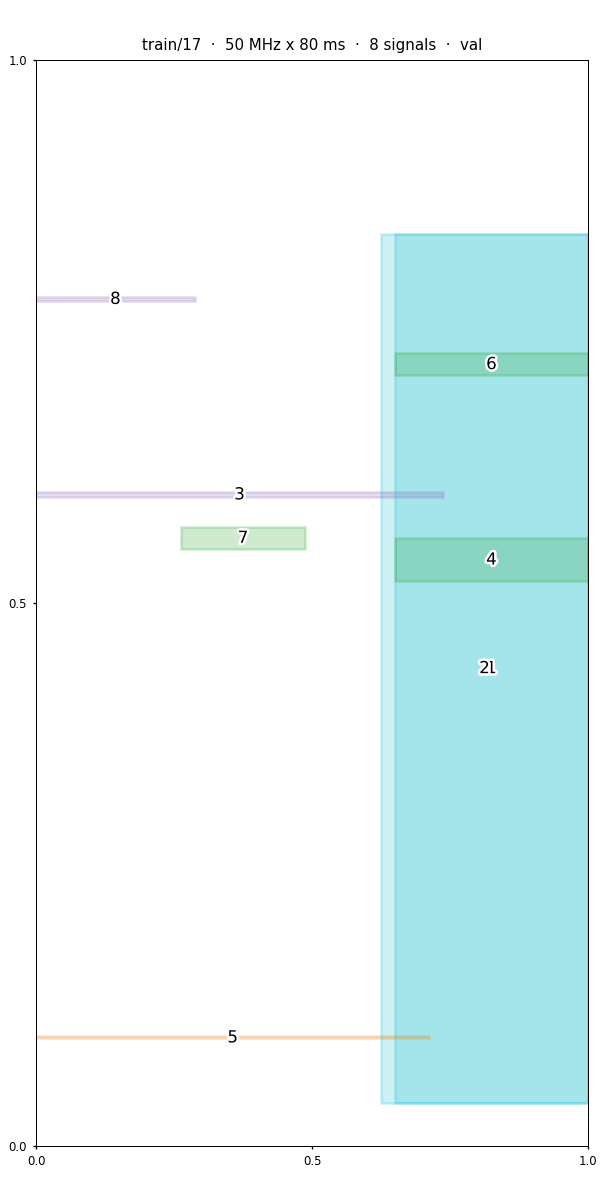
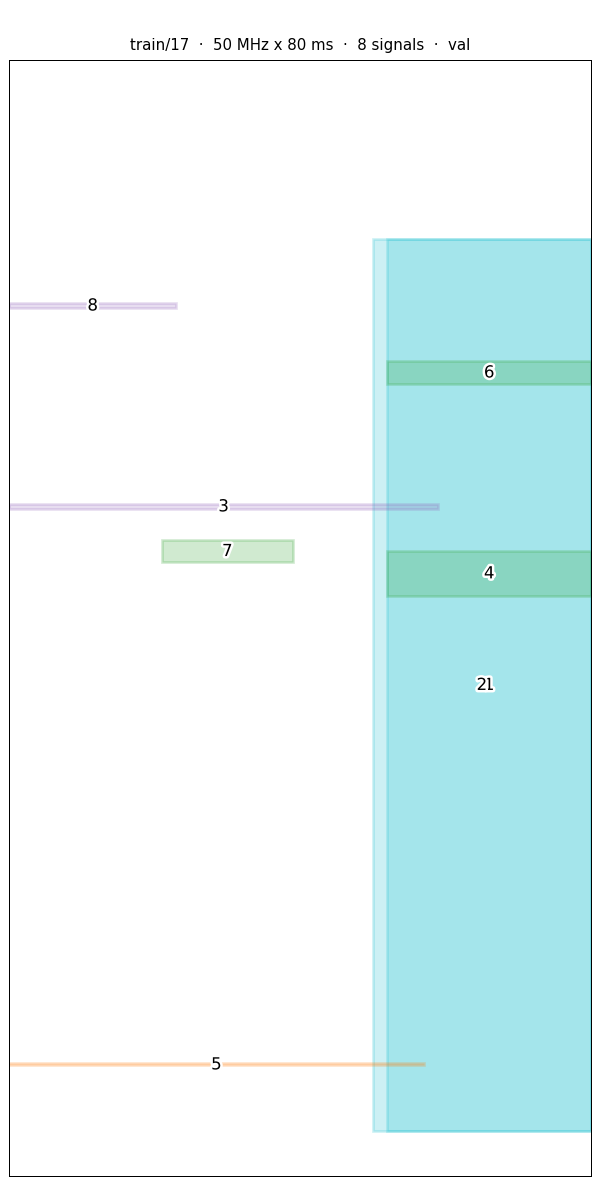
style: multiline header and overlap list, remove tick numbers and svg border

diff --git a/reports/label_schematic_browser.html b/reports/label_schematic_browser.html
@@ -15,11 +15,11 @@ button { padding:4px 10px; font-size:12px; margin:2px 4px 2px 0; cursor:pointer;
 #legend div { margin:3px 0; white-space:nowrap; }
 #legend i { display:inline-block; width:12px; height:12px; border:1.5px solid; margin-right:6px; vertical-align:-2px; }
 #stats { margin-top:16px; font-size:11px; color:#888; }
-#head { font-size:14px; margin-bottom:8px; }
-#head .sub { color:#666; font-size:12px; }
-#ovl { font-size:12px; margin-bottom:8px; color:#444; max-height:110px; overflow-y:auto; }
-#ovl b { color:#c0392b; }
-svg { background:#fff; border:1px solid var(--line); max-height:calc(100vh - 120px); }
+#head .id { font-size:15px; font-weight:600; }
+#head .meta { color:#666; font-size:12px; margin:2px 0 8px; }
+#ovl { font-size:12px; margin-bottom:8px; color:#444; max-height:132px; overflow-y:auto; line-height:1.65; }
+#ovl .t { font-weight:600; color:#c0392b; margin-bottom:1px; }
+svg { background:#fff; max-height:calc(100vh - 120px); }
 #tip { position:fixed; display:none; background:#fff; border:1px solid #bbb; box-shadow:0 2px 8px rgba(0,0,0,.15);
        padding:7px 10px; font-size:12px; pointer-events:none; z-index:10; white-space:nowrap; }
 #tip .t1 { font-weight:600; } #tip .t2 { color:#555; }
@@ -58,7 +58,7 @@ const DATA = [["train/0","fit",30.0,80.0,2401.0,[[9,0.4,1.0,0.56579,0.56754,0.05
 const NAMES = ["W20-QPSK", "W20-16QAM", "W20-64QAM", "W40-QPSK", "W40-16QAM", "W40-64QAM", "BLE LE1M", "BLE LE2M", "Zigbee", "LoRa 250k", "SRRC QPSK", "SRRC 16QAM", "AM", "FM"];
 const FAMC = ["#1f77b4", "#1f77b4", "#1f77b4", "#17becf", "#17becf", "#17becf", "#2ca02c", "#2ca02c", "#2ca02c", "#ff7f0e", "#d62728", "#d62728", "#9467bd", "#9467bd"], FAMN = ["WiFi 20MHz", "WiFi 40MHz", "BLE/Zigbee", "LoRa", "SRRC", "AM/FM"], REPR = [0,3,6,9,10,12];
 const famOf = c => c<3?0 : c<6?1 : c<9?2 : c===9?3 : c<12?4 : 5;
-const W=520,H=1040,PL=48,PR=12,PT=18,PB=36,PW=W-PL-PR,PH=H-PT-PB;
+const W=520,H=1040,PL=6,PR=6,PT=12,PB=12,PW=W-PL-PR,PH=H-PT-PB;
 const X = t => PL + t*PW, Y = f => PT + (1-f)*PH;
 
 let list = DATA.slice(), idx = 0;
@@ -97,13 +97,11 @@ function render(){
   svg.innerHTML = '';
   const mk = (tag,attrs)=>{const el=document.createElementNS('http://www.w3.org/2000/svg',tag);
     for(const k in attrs) el.setAttribute(k,attrs[k]); svg.append(el); return el;};
-  // frame + ticks
+  // frame (the 0-1 observation window) + midpoint guides
   mk('rect',{x:PL,y:PT,width:PW,height:PH,fill:'#fff',stroke:'#999','stroke-width':1});
-  [0,0.5,1].forEach(v=>{
+  [0.5].forEach(v=>{
     mk('line',{x1:X(v),y1:PT,x2:X(v),y2:PT+PH,stroke:'#eee'});
     mk('line',{x1:PL,y1:Y(v),x2:PL+PW,y2:Y(v),stroke:'#eee'});
-    mk('text',{x:X(v),y:H-14,'font-size':10,'text-anchor':'middle',fill:'#888'}).textContent=v;
-    mk('text',{x:PL-10,y:Y(v)+3,'font-size':10,'text-anchor':'end',fill:'#888'}).textContent=v;
   });
 
   // overlap pairs
@@ -116,11 +114,12 @@ function render(){
       pairs.push([i+1,j+1,inter/aa,inter/bb]);
     }
   }
-  $('head').innerHTML = `${id} <span class="sub">· ${B} MHz × ${T} ms · ${sigs.length} signal${sigs.length>1?'s':''} · split ${split}</span>`;
+  $('head').innerHTML = `<div class="id">${id}</div>`
+    + `<div class="meta">${B} MHz × ${T} ms · ${sigs.length} signal${sigs.length>1?'s':''} · split ${split}</div>`;
   $('ovl').innerHTML = pairs.length
-    ? '<b>'+pairs.length+' overlapping pair'+(pairs.length>1?'s':'')+':</b> '
-      + pairs.map(p=>`#${p[0]}&#8745;#${p[1]} (${(p[2]*100).toFixed(1)}% of #${p[0]}, ${(p[3]*100).toFixed(1)}% of #${p[1]})`).join(' &nbsp; ')
-    : 'no overlapping instances';
+    ? `<div class="t">${pairs.length} overlapping pair${pairs.length>1?'s':''}</div>`
+      + pairs.map(p=>`<div>#${p[0]} ∩ #${p[1]} · ${(p[2]*100).toFixed(1)}% of #${p[0]} · ${(p[3]*100).toFixed(1)}% of #${p[1]}</div>`).join('')
+    : '<div>no overlapping instances</div>';
 
   // boxes
   sigs.forEach((g,k)=>{

diff --git a/scripts/plot_label_schematic.py b/scripts/plot_label_schematic.py
@@ -92,12 +92,11 @@ def load_samples(splits: list[str]) -> list[dict]:
 
 def render_static(sample: dict, path: Path, dpi: int = 120) -> None:
     fig = plt.figure(figsize=(5, 5 * ASPECT))
-    ax = fig.add_axes([0.06, 0.045, 0.92, 0.905])
+    ax = fig.add_axes([0.015, 0.02, 0.97, 0.93])
     ax.set_xlim(0, 1)
     ax.set_ylim(0, 1)
-    ax.set_xticks([0, 0.5, 1])
-    ax.set_yticks([0, 0.5, 1])
-    ax.tick_params(labelsize=7, length=2)
+    ax.set_xticks([])
+    ax.set_yticks([])
     for sp in ax.spines.values():
         sp.set_linewidth(0.6)
     ax.set_title(
@@ -152,11 +151,11 @@ button { padding:4px 10px; font-size:12px; margin:2px 4px 2px 0; cursor:pointer;
 #legend div { margin:3px 0; white-space:nowrap; }
 #legend i { display:inline-block; width:12px; height:12px; border:1.5px solid; margin-right:6px; vertical-align:-2px; }
 #stats { margin-top:16px; font-size:11px; color:#888; }
-#head { font-size:14px; margin-bottom:8px; }
-#head .sub { color:#666; font-size:12px; }
-#ovl { font-size:12px; margin-bottom:8px; color:#444; max-height:110px; overflow-y:auto; }
-#ovl b { color:#c0392b; }
-svg { background:#fff; border:1px solid var(--line); max-height:calc(100vh - 120px); }
+#head .id { font-size:15px; font-weight:600; }
+#head .meta { color:#666; font-size:12px; margin:2px 0 8px; }
+#ovl { font-size:12px; margin-bottom:8px; color:#444; max-height:132px; overflow-y:auto; line-height:1.65; }
+#ovl .t { font-weight:600; color:#c0392b; margin-bottom:1px; }
+svg { background:#fff; max-height:calc(100vh - 120px); }
 #tip { position:fixed; display:none; background:#fff; border:1px solid #bbb; box-shadow:0 2px 8px rgba(0,0,0,.15);
        padding:7px 10px; font-size:12px; pointer-events:none; z-index:10; white-space:nowrap; }
 #tip .t1 { font-weight:600; } #tip .t2 { color:#555; }
@@ -195,7 +194,7 @@ const DATA = __DATA__;
 const NAMES = __NAMES__;
 const FAMC = __FAMC__, FAMN = __FAMN__, REPR = [0,3,6,9,10,12];
 const famOf = c => c<3?0 : c<6?1 : c<9?2 : c===9?3 : c<12?4 : 5;
-const W=520,H=1040,PL=48,PR=12,PT=18,PB=36,PW=W-PL-PR,PH=H-PT-PB;
+const W=520,H=1040,PL=6,PR=6,PT=12,PB=12,PW=W-PL-PR,PH=H-PT-PB;
 const X = t => PL + t*PW, Y = f => PT + (1-f)*PH;
 
 let list = DATA.slice(), idx = 0;
@@ -234,13 +233,11 @@ function render(){
   svg.innerHTML = '';
   const mk = (tag,attrs)=>{const el=document.createElementNS('http://www.w3.org/2000/svg',tag);
     for(const k in attrs) el.setAttribute(k,attrs[k]); svg.append(el); return el;};
-  // frame + ticks
+  // frame (the 0-1 observation window) + midpoint guides
   mk('rect',{x:PL,y:PT,width:PW,height:PH,fill:'#fff',stroke:'#999','stroke-width':1});
-  [0,0.5,1].forEach(v=>{
+  [0.5].forEach(v=>{
     mk('line',{x1:X(v),y1:PT,x2:X(v),y2:PT+PH,stroke:'#eee'});
     mk('line',{x1:PL,y1:Y(v),x2:PL+PW,y2:Y(v),stroke:'#eee'});
-    mk('text',{x:X(v),y:H-14,'font-size':10,'text-anchor':'middle',fill:'#888'}).textContent=v;
-    mk('text',{x:PL-10,y:Y(v)+3,'font-size':10,'text-anchor':'end',fill:'#888'}).textContent=v;
   });
 
   // overlap pairs
@@ -253,11 +250,12 @@ function render(){
       pairs.push([i+1,j+1,inter/aa,inter/bb]);
     }
   }
-  $('head').innerHTML = `${id} <span class="sub">· ${B} MHz × ${T} ms · ${sigs.length} signal${sigs.length>1?'s':''} · split ${split}</span>`;
+  $('head').innerHTML = `<div class="id">${id}</div>`
+    + `<div class="meta">${B} MHz × ${T} ms · ${sigs.length} signal${sigs.length>1?'s':''} · split ${split}</div>`;
   $('ovl').innerHTML = pairs.length
-    ? '<b>'+pairs.length+' overlapping pair'+(pairs.length>1?'s':'')+':</b> '
-      + pairs.map(p=>`#${p[0]}&#8745;#${p[1]} (${(p[2]*100).toFixed(1)}% of #${p[0]}, ${(p[3]*100).toFixed(1)}% of #${p[1]})`).join(' &nbsp; ')
-    : 'no overlapping instances';
+    ? `<div class="t">${pairs.length} overlapping pair${pairs.length>1?'s':''}</div>`
+      + pairs.map(p=>`<div>#${p[0]} ∩ #${p[1]} · ${(p[2]*100).toFixed(1)}% of #${p[0]} · ${(p[3]*100).toFixed(1)}% of #${p[1]}</div>`).join('')
+    : '<div>no overlapping instances</div>';
 
   // boxes
   sigs.forEach((g,k)=>{
